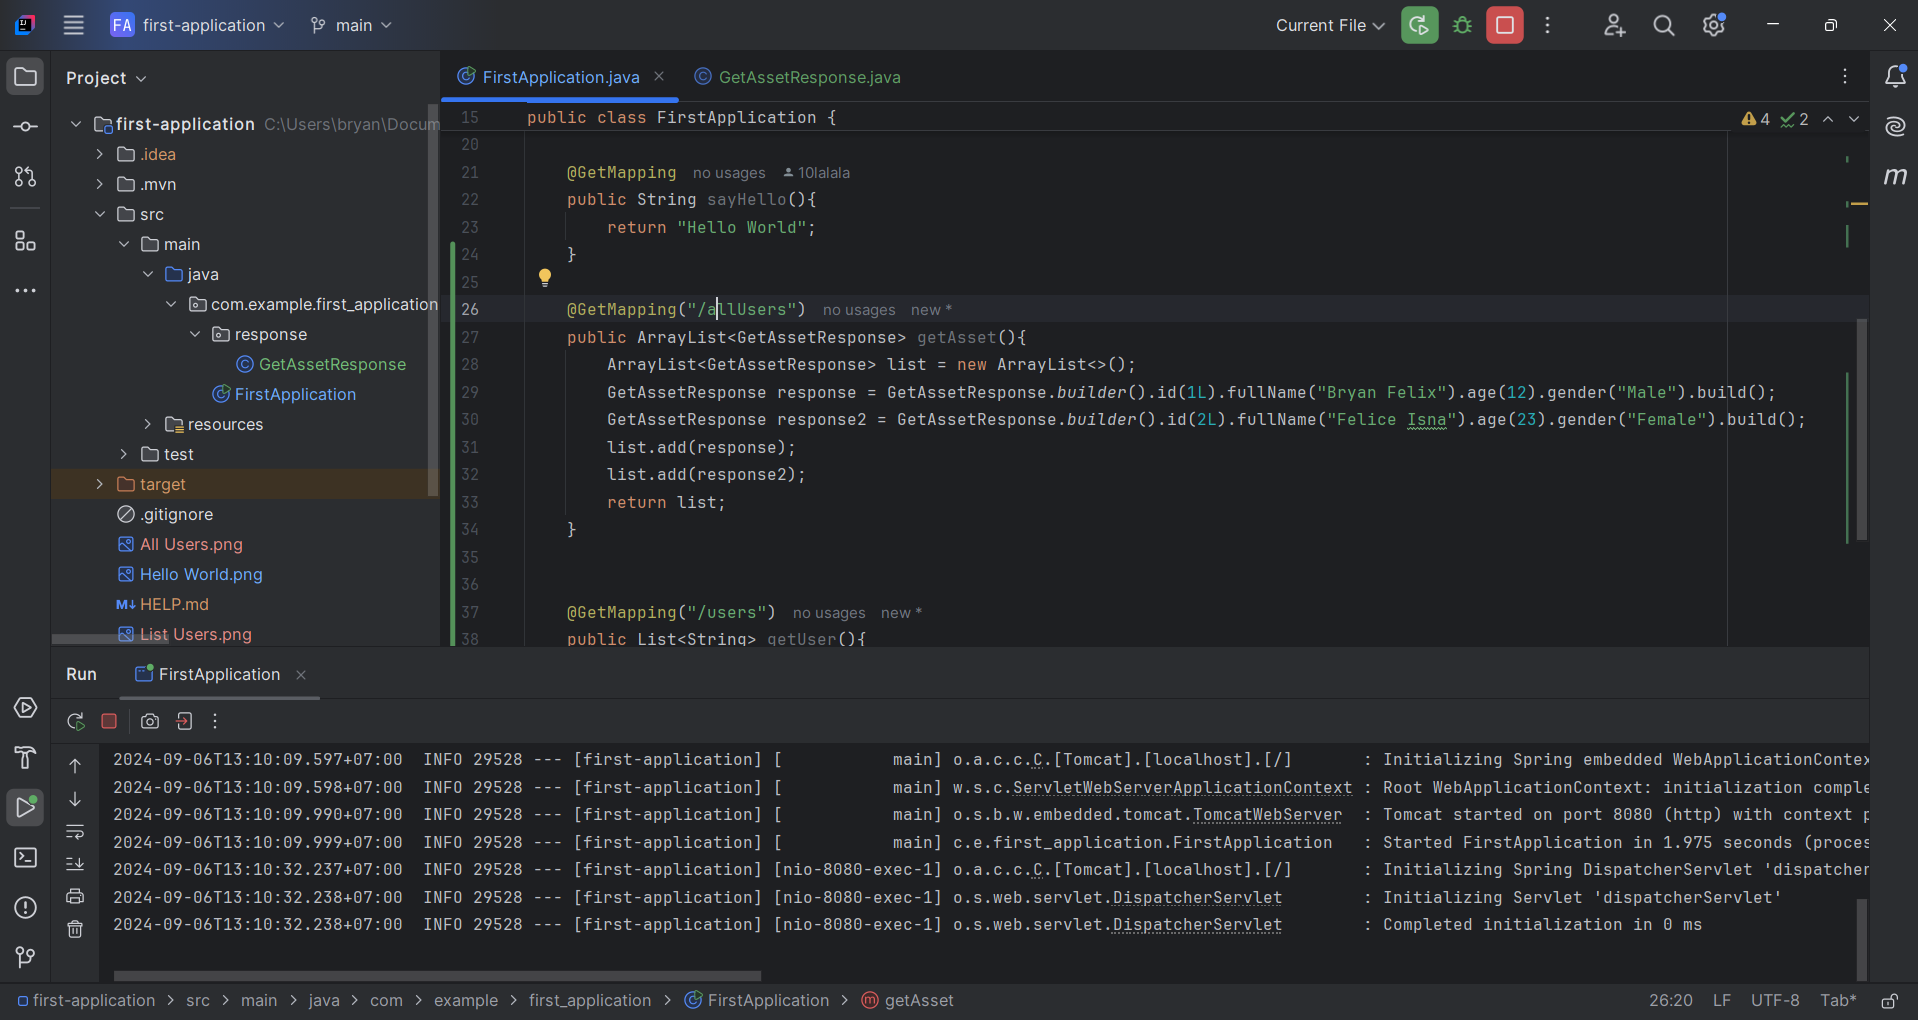
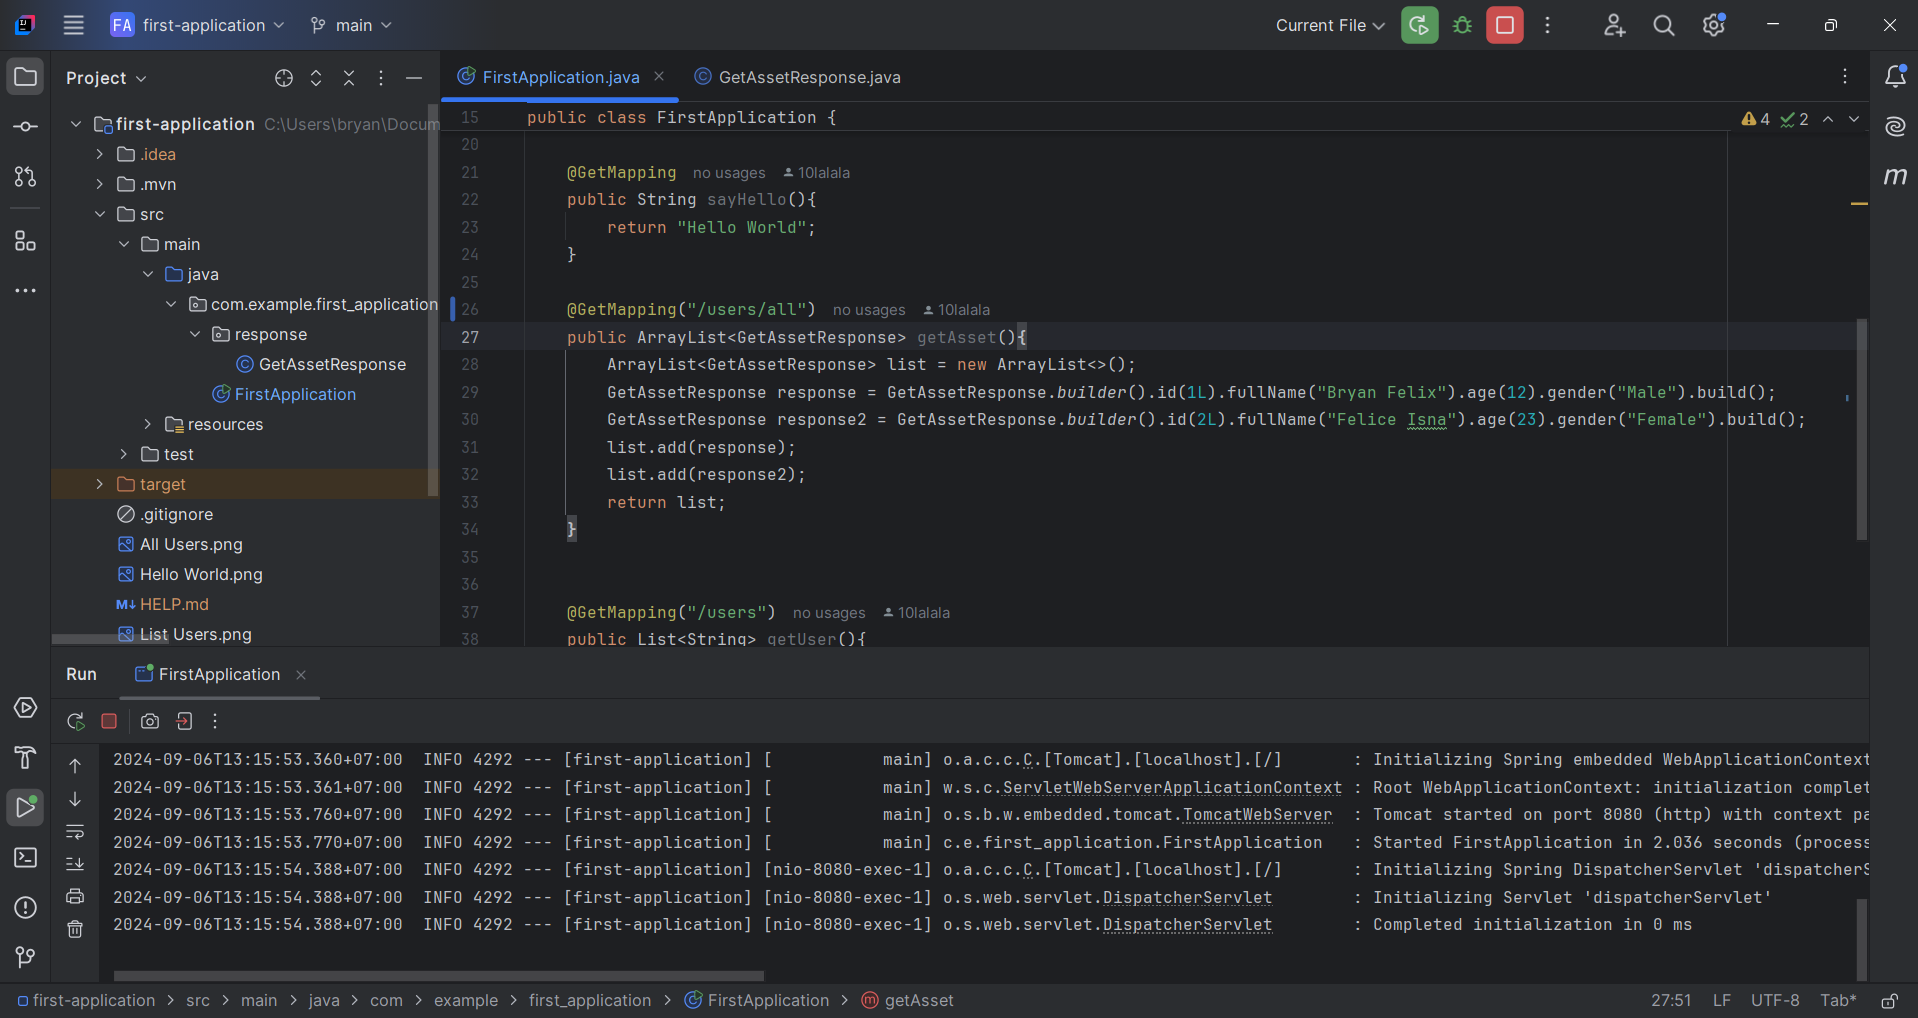
All Users

diff --git a/exercise/day-2/section-1/first-application/src/main/java/com/example/first_application/FirstApplication.java b/exercise/day-2/section-1/first-application/src/main/java/com/example/first_application/FirstApplication.java
@@ -23,7 +23,7 @@ public class FirstApplication {
 		return "Hello World";
 	}
 
-	@GetMapping("/allUsers")
+	@GetMapping("/users/all")
 	public ArrayList<GetAssetResponse> getAsset(){
 		ArrayList<GetAssetResponse> list = new ArrayList<>();
 		GetAssetResponse response = GetAssetResponse.builder().id(1L).fullName("Bryan Felix").age(12).gender("Male").build();
